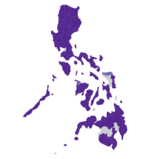
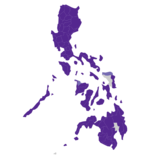
Added switch to preprocess for merging model data.

Changed region(s): [[0.64, 0.7799, 0.7733, 0.8805], [0.7467, 0.6038, 0.8, 0.6289], [0.4267, 0.3019, 0.4533, 0.327]]

diff --git a/preprocess/index.js b/preprocess/index.js
@@ -22,7 +22,7 @@ var argv = require('yargs')
         type: 'boolean'
     })
     .option('clean', {
-        describe: 'Remove all generated files',
+        describe: 'Remove all generated files from the current directory',
         type: 'boolean'
     })
     .option('web', {
@@ -33,6 +33,11 @@ var argv = require('yargs')
         describe: 'Generate a topojson file',
         type: 'boolean'
     })
+    .option('merge-model', {
+        alias: 'm',
+        describe: 'Merge map and model data into single topojson file',
+        type: 'boolean'
+    })
     .help('help')
     .argv;
 
@@ -40,7 +45,7 @@ var config,
     topojson_out;
 
 // remove all generated artifacts
-function clean() {
+function _clean() {
     var d = Q.defer();
     glob('*(*.topojson|*.svg|*.png)', function(err, files) {
         if (err) return console.log(err);
@@ -56,8 +61,8 @@ function clean() {
 }
 
 // generate svg's only
-function generateSvg(config) {
-    topojson.model_features(config)
+function _generateSvg(config) {
+    _generateTopojson(config)
         .then(function(files) {
             svg.svg(files.model_features, config)
                 .then(function(svgs) {
@@ -69,9 +74,25 @@ function generateSvg(config) {
         });
 }
 
-// generate topojson only
-function generateTopojson(config) {
-    topojson.model_features(config);
+/*
+ * Generate topojson.
+ * Checks if model data should be merged
+ */
+function _generateTopojson(config) {
+    var d = Q.defer();
+    // check for merge-model
+    if (argv.m) {
+        topojson.model_features(config)
+            .then(function(files) {
+                d.resolve(files);
+            })
+    } else {
+        topojson.plain_features(config)
+            .then(function(files) {
+                d.resolve(files);
+            });
+    }
+    return d.promise;
 }
 
 /*
@@ -80,8 +101,8 @@ function generateTopojson(config) {
  * map_data.topojson goes to ../maps for the /features.json api.
  * *_thubm.png goes to ../public/images/ for map switcher.
  */
-function generateWeb(config) {
-    topojson.model_features(config)
+function _generateWeb(config) {
+    _generateTopojson(config)
         .then(function(files) {
             // not generating svg so copy output to maps folder
             fs.copy(path.resolve(__dirname, files.model_features), path.resolve(__dirname, '..', 'maps', files.model_features), {
@@ -94,12 +115,12 @@ function generateWeb(config) {
                 .then(function(svgs) {
                     // generate pngs
                     var pngs = png.convert(config, svgs);
-                    for (var f in pngs){
+                    for (var f in pngs) {
                         var img = pngs[f];
                         fs.copySync(img, '../public/images/' + img);
                         console.log("Copied " + img + " to '../public/images/" + img + "'");
                     }
-            });
+                });
         });
 }
 
@@ -108,17 +129,17 @@ if (argv.config) {
     var conf = argv.c.split('.')[0]
     config = require('./' + conf);
     if (argv.topojson) {
-        generateTopojson(config);
+        _generateTopojson(config);
     }
     if (argv.svg) {
-        generateSvg(config);
+        _generateSvg(config);
     }
     if (argv.web) {
-        generateWeb(config);
+        _generateWeb(config);
     }
 }
 
 // remove artifacts
 if (argv.clean) {
-    clean();
+    _clean();
 }

diff --git a/preprocess/topojson.js b/preprocess/topojson.js
@@ -7,6 +7,9 @@ var mapshaper = require('mapshaper'),
 
 var generate = {};
 
+/*
+ * Generate topojson with merged model data.
+ */
 generate.model_features = function(config) {
     var width = config.map.width;
     var height = config.map.height;
@@ -15,7 +18,7 @@ generate.model_features = function(config) {
 
     // model features topojson command
     var layerConfig = config.layers['model_features'];
-    var msCmd = sprintf('-i name=%(layer_name)s %(shape_file)s auto-snap -simplify %(simplify)s -filter-fields %(filter_fields)s -join %(data)s  keys=%(shp_join_field)s:str,%(data_join_field)s:str -o force temp.topojson', {
+    var msCmd = sprintf('-i name=%(layer_name)s %(shape_file)s auto-snap -simplify %(simplify)s -filter-fields %(filter_fields)s -join %(data)s  keys=%(shp_join_field)s:str,%(data_join_field)s:str -rename-fields %(rename_fields)s -o force temp.topojson', {
         layer_name: layerConfig.layer_name,
         shape_file: layerConfig.shape_file,
         simplify: config.map.simplify_poly,
@@ -23,6 +26,48 @@ generate.model_features = function(config) {
         data: config.inputs.data,
         shp_join_field: layerConfig.shp_join_field,
         data_join_field: layerConfig.data_join_field,
+        rename_fields: layerConfig.rename_fields
+    });
+    var d = Q.defer();
+    mapshaper.runCommands(msCmd, function() {
+        var topoCmd = sprintf("topojson -p --width %(width)s --height %(height)s --margin %(margin)s --projection '%(projection)s' -o map_data.topojson temp.topojson", {
+            width: width,
+            height: height,
+            margin: margin,
+            projection: projection
+        });
+        exec(topoCmd, function(err, stdout, stderr) {
+            if (err) return console.log(err);
+            // remove temporary file
+            var file = path.resolve(__dirname, './temp.topojson');
+            fs.removeSync(file, function(err) {
+                if (err) return console.log(err);
+            });
+            d.resolve({
+                'model_features': 'map_data.topojson'
+            });
+        });
+    });
+    return d.promise;
+}
+
+/*
+ *  Generate topojson without merging model data.
+ */
+generate.plain_features = function(config) {
+    var width = config.map.width;
+    var height = config.map.height;
+    var margin = config.map.margin;
+    var projection = config.map.projection;
+
+    // model features topojson command
+    var layerConfig = config.layers['model_features'];
+    var msCmd = sprintf('-i name=%(layer_name)s %(shape_file)s auto-snap -simplify %(simplify)s -filter-fields %(filter_fields)s -rename-fields %(rename_fields)s -o force temp.topojson', {
+        layer_name: layerConfig.layer_name,
+        shape_file: layerConfig.shape_file,
+        simplify: config.map.simplify_poly,
+        filter_fields: layerConfig.filter_fields,
+        rename_fields: layerConfig.rename_fields
     });
     var d = Q.defer();
     mapshaper.runCommands(msCmd, function() {

diff --git a/preprocess/svg.js b/preprocess/svg.js
@@ -93,10 +93,13 @@ generate.svg = function(file, config) {
             modelFeatures.selectAll(".feature")
                 .data(model_features)
                 .enter().append("path")
+                .attr("id", function(d){
+                    return d.properties.iso;
+                })
                 .attr("class", function(d) {
-                    var cls = d.properties.iso == null ? 'nodata' : 'data';
-                    var iso = d.properties.iso;
-                    return sprintf("feature %s %s", cls, iso);
+                    // TODO needs to be generalized
+                    var cls = d.properties.province == null ? 'nodata' : 'data';
+                    return sprintf("feature %s", cls);
                 })
                 .style("fill", function(d) {
                     //if output value exists, assign it a color

diff --git a/preprocess/phl/config.js b/preprocess/phl/config.js
@@ -15,13 +15,15 @@ config = {
             // layer name in topojson
             "layer_name": "model_features",
             // input shapefile name - relative to index.js
-            "shape_file": "phl/shp/PHL_adm1.shp",
+            "shape_file": "phl/shp/PHL_ADM_1_ISO.shp",
             // fields to preserve from input to output
-            "filter_fields": "NAME_1",
+            "filter_fields": "NAME_1,ne_10m_adm",
+            // rename input fields in output topojson
+            "rename_fields": "iso=ne_10m_adm",
             // join field on input data
-            "data_join_field": "province",
+            "data_join_field": "iso",
             // join field on shpapefile
-            "shp_join_field": "NAME_1",
+            "shp_join_field": "ne_10m_adm",
         }
     },
     "map": {
